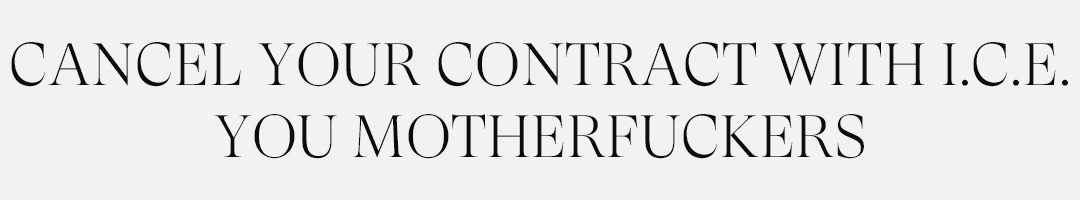
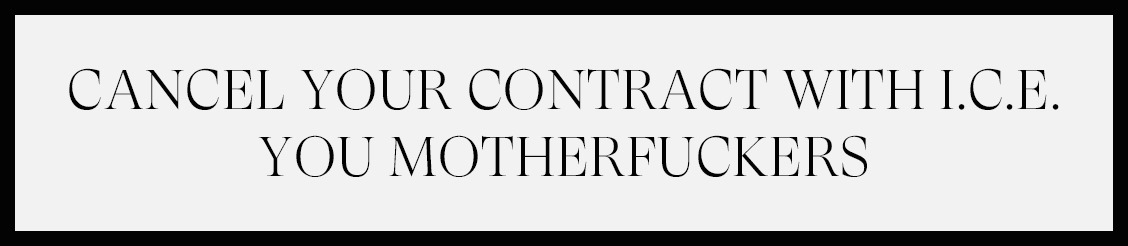
✨  - Update README

Changed region(s): [[0.0, 0.0, 1.0, 1.0], [0.1833, 0.54, 0.825, 0.81]]

diff --git a/README.md b/README.md
@@ -1,16 +1,1 @@
-### Hi there 👋
-
-<!--
-**xdesro/xdesro** is a ✨ _special_ ✨ repository because its `README.md` (this file) appears on your GitHub profile.
-
-Here are some ideas to get you started:
-
-- 🔭 I’m currently working on ...
-- 🌱 I’m currently learning ...
-- 👯 I’m looking to collaborate on ...
-- 🤔 I’m looking for help with ...
-- 💬 Ask me about ...
-- 📫 How to reach me: ...
-- 😄 Pronouns: ...
-- ⚡ Fun fact: ...
--->
+![Cancel your contract with ICE.](https://raw.githubusercontent.com/xdesro/xdesro/master/cancel-your-contract.jpg)
